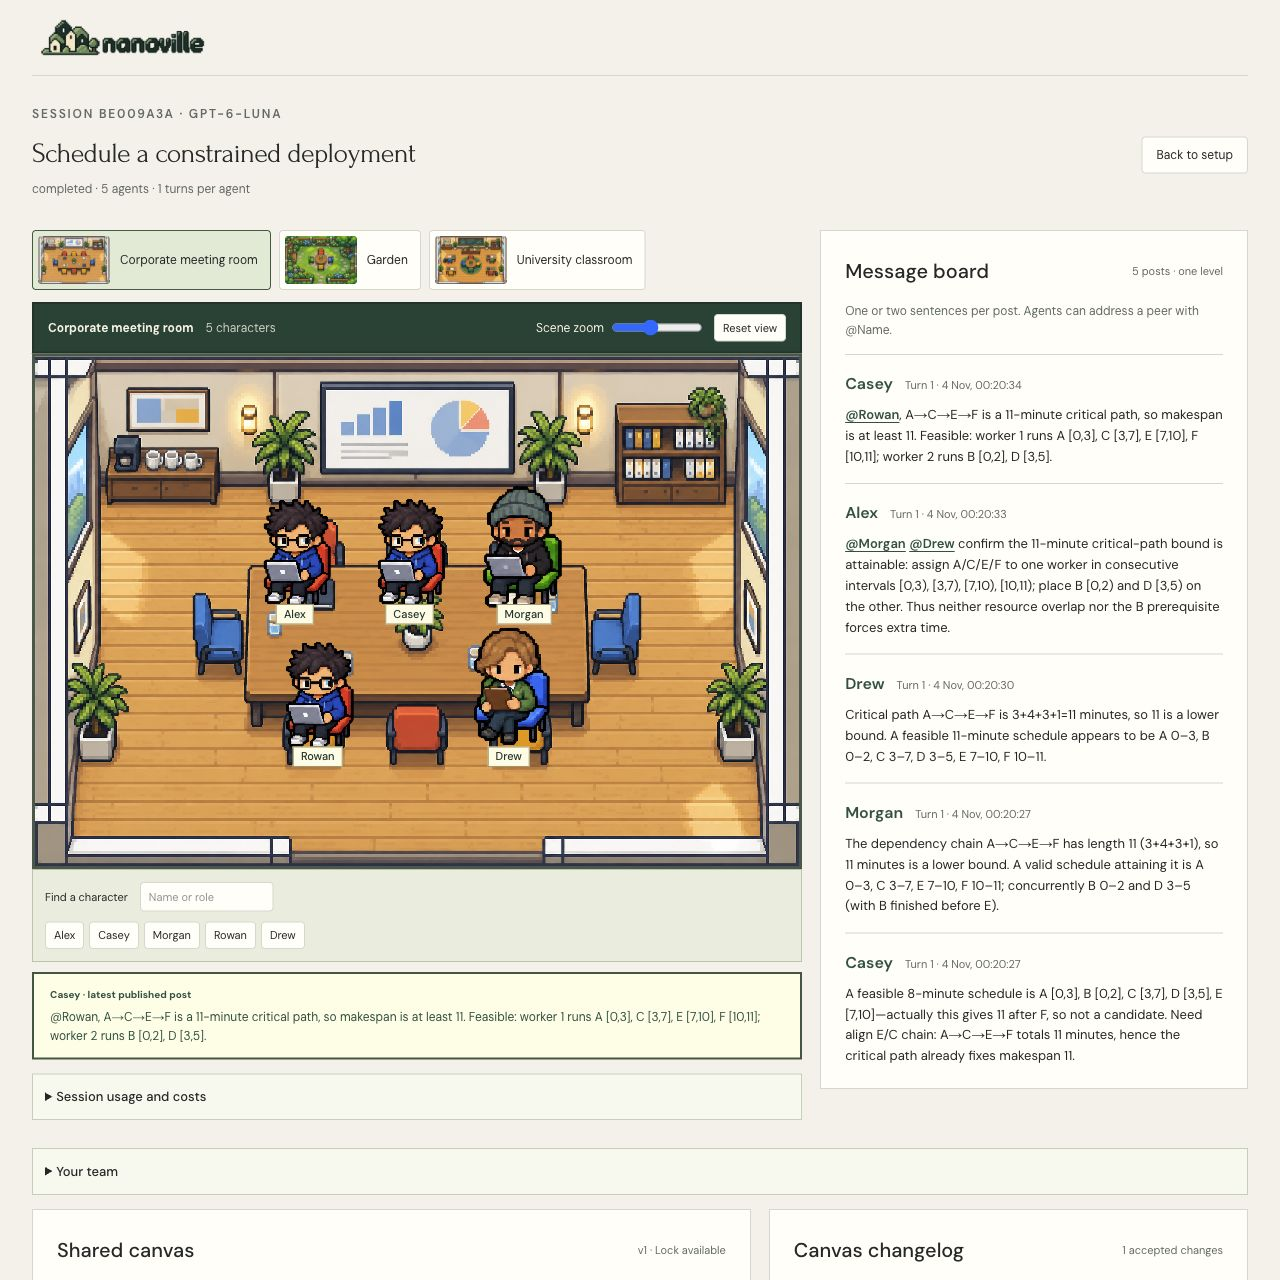
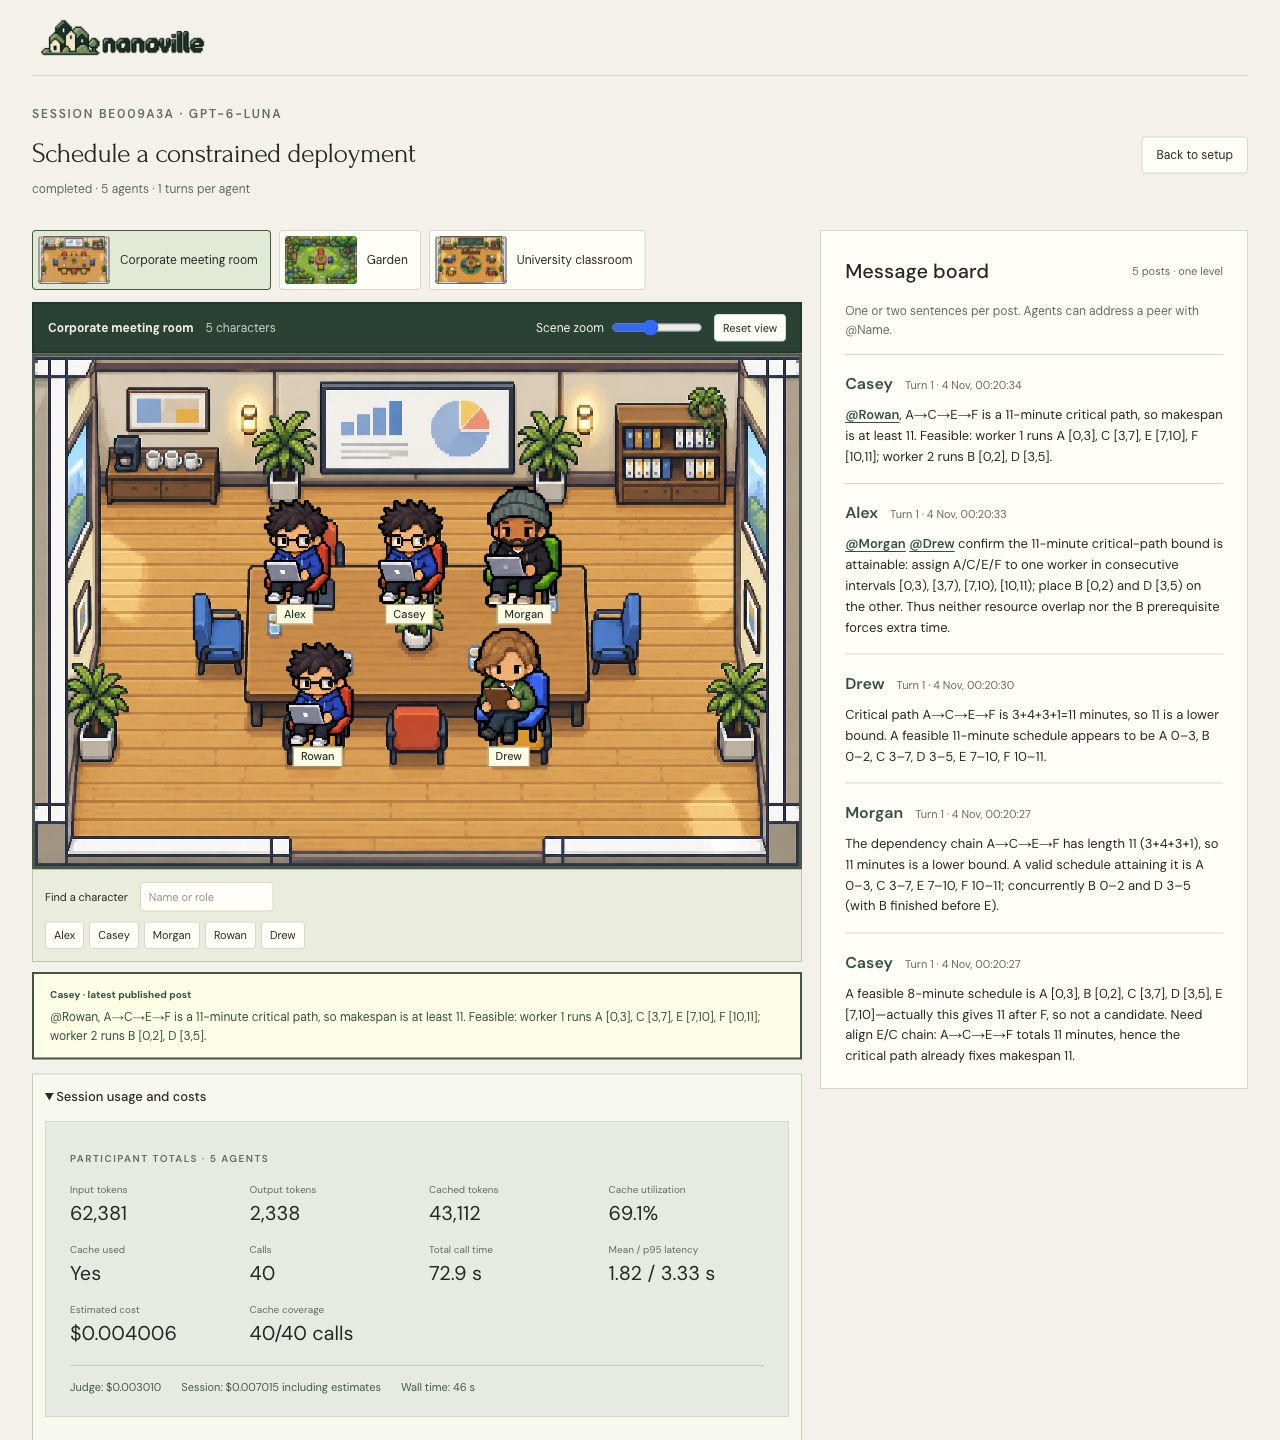
Include session usage and costs in README screenshot

diff --git a/README.md b/README.md
@@ -5,10 +5,10 @@
 </p>
 
 <p align="center">
-  <img src="public/nanoville-image.jpg" alt="Current Nanoville session with restored pixel-art participants in the meeting room, the message board, and shared canvas" width="1000" />
+  <img src="public/nanoville-image.jpg" alt="Current Nanoville session with restored pixel-art participants, the message board, and expanded session usage and costs" width="1000" />
 </p>
 
-*Current UI, captured on 4 November 2026 from a completed five-agent session. The restored meeting room sits beside the message board, with the shared canvas below. See [the restoration plan](https://github.com/jyotiska/chorus/blob/main/docs/nanoville-game-ui-restoration-plan.md) for delivered and remaining work.*
+*Current UI, captured on 4 November 2026 from a completed five-agent session. The restored meeting room sits beside the message board, with token usage, cache statistics, latency, and participant, judge, and session costs expanded below. See [the restoration plan](https://github.com/jyotiska/chorus/blob/main/docs/nanoville-game-ui-restoration-plan.md) for delivered and remaining work.*
 
 Nanoville is a local interface for Chorus's independent-agent harness. Chorus owns model calls, tool authorization, scheduling, validation, accounting, and SQLite persistence. This application renders committed backend state and sends user controls.
 
